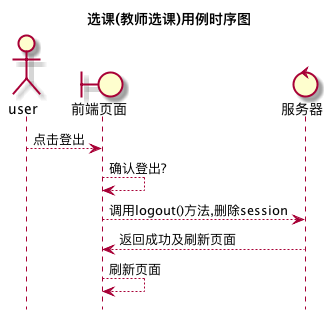
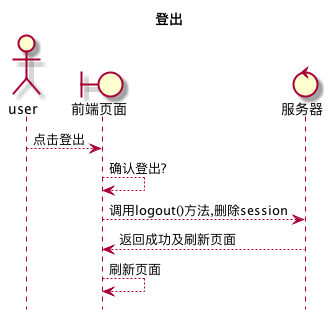
test6

Changed region(s): [[0.2395, 0.0312, 0.7485, 0.0938]]

diff --git a/test6/用例/登录.md b/test6/用例/登录.md
@@ -11,19 +11,15 @@
 |主事件流| <ol><li>访客输入用户名和密码，选择角色类型</li><li>系统判断用户名，密码，用户类正确，允许登录</li><li>系统将登录用户信息存入session，设置有效时间。</li></ol>|
 |备选事件流|<ol><li>输入的用户名或者密码为空</li> <ol><li>提示用户名或密码为空</li><li>访客重新提交登录信息</li></ol> <li>系统判断用户名，密码，用户类不正确，不允许登录</li> <ol><li>提示用户名，密码，用户类不正确</li><li>访客重新提交登录信息</li></ol> <li>输入用户名,密码不合法</li> <ol><li>提示输入不合法</li><li>访客重新提交登录信息</li></ol></ol>|
 
-#### 2.业务流程(顺序图)
-![登录](/out/test6/sequence/登录/登录.png)
+#### 2.业务流程(顺序图) 
+无
 
 #### 3.界面设计
 
-#### 4.算法描述
-
-- get_publicKey,通过api获得服务器的公钥并将它保存到session中,作为以后各个用例中需要加密传输或者解密是的钥匙,需要加密或者解密的内容在用例图中有明确提出
-- 登录成功后需要将用户信息存储到session中,这样可以方便后续用例操作中用来使用
-- 用户登录成功后需要必须根据用户的类型判断用户所属角色才能进行接下来的操作,并且加载不同的主页面
-
-
+#### 4.算法描述[源码](../sequence/登录.md)
+![登录](/out/test6/sequence/登录/登录.png)
 
 #### 5.参照表
+- [users](../数据库设计.md/#users)
 - [students](../数据库设计.md/#students)
 - [teachers](../数据库设计.md/#teachers)

diff --git a/test6/用例/修改密码.md b/test6/用例/修改密码.md
@@ -1,0 +1,28 @@
+### “修改密码”用例 [返回](././README.md)
+
+#### 1.用例规约
+
+|用例名称|修改密码|
+|-------|:-------------|
+|功能|修改用户的登录密码|
+|参与者|学生,任课教师|
+|前置条件|登录了系统平台,进入了登录界面|
+|后置条件|密码修改成功后旧密码不能再次使用,只能使用新密码才能登录|
+|主事件流|<ol><li>输入新旧密码</li><li>系统验证输入合法性</li><li>系统验证旧密码正确性</li><li>将新密码录入到用户数据中</li></ol>|
+|备选事件流|<ol><li>旧密码错误<ol><li>提示旧密码错误</li><li>重新输入旧密码</li></ol></li><li>输入不能为空<ol><li>输入提示输入内容为空</li><li>重新输入内容</li></ol></li><li>输入内容不合法<ol><li>提示输入内容不合法</li><li>重新输入不合法内容</li></ol></li></ol>|
+
+
+
+#### 2.业务流程(顺序图) [源码](../sequence/修改密码.md)
+![登出](/out/test6/sequence/修改密码/修改密码.png)
+
+#### 3.界面设计
+
+#### 4.算法描述[源码](../sequence/修改密码1.md)
+![登出](/out/test6/sequence/修改密码1/修改密码1.png)
+
+
+#### 5.参照表
+- [users](../数据库设计.md/#users)
+- [students](../数据库设计.md/#students)
+- [teachers](../数据库设计.md/#teachers)

diff --git a/test6/sequence/修改密码1.md b/test6/sequence/修改密码1.md
@@ -1,0 +1,20 @@
+@startuml 修改密码
+title 修改密码
+hide footbox
+actor user
+boundary 前端页面
+control 服务器
+database 用户数据
+user --> 前端页面: 输入新旧密码
+前端页面 --> 前端页面: 验证输入合法性及\n两次新密码是否一致
+前端页面 --> 服务器: 发送校验旧密码请求,传入公钥加密的用户id及旧密码
+服务器 --> 服务器: 用私钥对公钥加密的密码\n进行解密获得用户id及旧密码
+服务器 --> 用户数据: 通过用户id查找数据库存储的加密密码
+用户数据 --> 服务器: 返回加密密码
+服务器 --> 服务器: 调用checkPwd()方法验证旧密码是否正确
+服务器 --> 前端页面: 返回成功
+前端页面 --> 前端页面: 确认修改
+前端页面 --> 服务器: 发送修改密码请求,传入公钥加密的用户id及新密码
+服务器 --> 服务器: 用私钥对公钥加密的密码\n进行解密获得用户id及新密码
+服务器 --> 用户数据: 传入加密算法处理过的新密码,\n调用updatePwd()方法修改用户密码
+@enduml

diff --git a/test6/用例/学生列表.md b/test6/用例/学生列表.md
@@ -1,0 +1,28 @@
+### “学生列表”用例 [返回](././README.md)
+
+#### 1.用例规约
+
+|用例名称|显示本课程学生列表|
+|-------|:-------------|
+|功能|以表形式的显示出所有学生的信息|
+|参与者|老师|
+|前置条件| 以老师的身份登录成功|
+|后置条件||
+|主事件流| 1. 老师选择任教课程<br/>2.系统根据课程编号显示学生列表<br/>|
+|备选事件流|1a. 老师无任教课程 <br/>&nbsp;&nbsp; 1.下拉菜单无选项 <br/> &nbsp;&nbsp;|
+
+
+
+#### 2.业务流程(顺序图) [源码](../sequence/学生列表.md)
+![登出](/out/test6/sequence/学生列表/学生列表.png)
+
+#### 3.界面设计
+
+#### 4.算法描述[源码](../sequence/学生列表1.md)
+![登出](/out/test6/sequence/学生列表1/学生列表1.png)
+
+
+#### 5.参照表
+- [users](../数据库设计.md/#users)
+- [students](../数据库设计.md/#students)
+- [courses](../数据库设计.md/#courses)

diff --git a/test6/用例/修改用户信息.md b/test6/用例/修改用户信息.md
@@ -1,0 +1,26 @@
+### “修改用户信息”用例 [返回](././README.md)
+
+#### 1.用例规约
+
+|用例名称|修改用户信息|
+|-------|:-------------|
+|功能|修改用户的信息|
+|参与者|学生/老师|
+|前置条件|必须先登录，并且查看用户现有的GitHub用户名|
+|后置条件|修改完成用户信息后，用户可以点击查看到更新后的信息|
+|主事件流| 1.用户提交修改信息 <br/>2. 判断输入内容是否合法 <br>3.系统存储修改后的信息|
+|备选事件流|1a. 输入内容不合法 <br/>|
+
+
+#### 2.业务流程(顺序图) [源码](../sequence/修改用户信息.md)
+![登出](/out/test6/sequence/修改用户信息/修改用户信息.png)
+
+#### 3.界面设计
+
+#### 4.算法描述
+无
+
+#### 5.参照表
+- [users](../数据库设计.md/#users)
+- [students](../数据库设计.md/#students)
+- [teachers](../数据库设计.md/#teachers)

diff --git a/test6/用例/查看用户信息.md b/test6/用例/查看用户信息.md
@@ -1,0 +1,27 @@
+### “查看用户信息”用例 [返回](././README.md)
+
+#### 1.用例规约
+
+|用例名称|查看用户信息|
+|-------|:-------------|
+|功能|查看用户个人的所有信息|
+|参与者|学生/老师|
+|前置条件|必须先登录|
+|后置条件|跳转至显示用户信息页面|
+|主事件流|1. 用户点击页面顶部右上角的用户头像，选择查看用户信息<br/>2.系统访问数据库，读取用户信息，显示用户信息。|
+|备选事件流| |
+
+
+#### 2.业务流程(顺序图) [源码](../sequence/查看用户信息.md)
+![登出](/out/test6/sequence/查看用户信息/查看用户信息.png)
+
+#### 3.界面设计
+
+#### 4.算法描述
+无
+
+
+#### 5.参照表
+- [users](../数据库设计.md/#users)
+- [students](../数据库设计.md/#students)
+- [teachers](../数据库设计.md/#teachers)

diff --git a/test6/sequence/学生列表1.md b/test6/sequence/学生列表1.md
@@ -1,0 +1,21 @@
+@startuml
+skinparam titleBorderRoundCorner 15
+skinparam titleBorderThickness 2
+skinparam titleBorderColor #Black
+skinparam titleFontSize 24
+Title 显示本课程学生列表流程图
+
+
+actor 老师显示学生列表主页面
+actor API服务
+database 数据库存储
+
+== 老师主页面 ==
+老师显示学生列表主页面->API服务:传入课程的course_id
+API服务->数据库存储:访问courses表中是否有对应课程字段
+数据库存储->数据库存储:根据对应的course_term和course_major\n以及course_class字段在students表中查找学生
+数据库存储->API服务:返回课程course的学生列表
+API服务->老师显示学生列表主页面:返回所任教课程的学生列表
+== 老师登录后正常使用，\n每次请求都会访问API==
+
+@enduml

diff --git a/test6/sequence/修改用户信息.md b/test6/sequence/修改用户信息.md
@@ -1,0 +1,24 @@
+@startuml
+title 修改用户信息
+actor users
+== 查看用户信息 ==
+users -> users: 查看用户信息
+alt 如果users是教师
+    users -> teachers
+    teachers --> users:返回教师的个人信息
+else 如果users是学生
+    users -> students
+    students --> users:返回学生的个人信息
+end
+== 修改用户信息 ==
+alt 如果users是教师
+    users -> teachers:录入并提交修改后的教师的个人信息
+    teachers -> teachers:验证修改内容合法性
+    teachers --> users:返回操作结果
+else 如果users是学生
+    users -> students:录入并提交修改后的学生的个人信息
+    students -> students:验证修改内容合法性
+    students --> users:返回操作结果
+end
+
+@enduml

diff --git a/test6/用例/登出.md b/test6/用例/登出.md
@@ -11,17 +11,16 @@
 |主事件流|<ol><li>用户点击登出</li><li>系统确认登出</li><li>删除session中数据,并且返回登录界面</li></ol>|
 |备选事件流|无|
 
-#### 2.业务流程(顺序图)
-![登出](/out/test6/sequence/登出/登出.png)
+#### 2.业务流程(顺序图) 
+无
 
 #### 3.界面设计
 
-#### 4.算法描述
-
-- 登出由于是危险操作于是要确认
-- 登录后需要删除session中的所有数据回到登录界面,保证数据安全
+#### 4.算法描述[源码](../sequence/登出.md)
+![登出](/out/test6/sequence/登出/登出.png)
 
 
 #### 5.参照表
+- [users](../数据库设计.md/#users)
 - [students](../数据库设计.md/#students)
 - [teachers](../数据库设计.md/#teachers)

diff --git a/test6/用例图.md b/test6/用例图.md
@@ -28,6 +28,7 @@ package 业务用例集{
     (新建课程) as addCourse
     (查看本课程实验任务) as showCourseAssign
     (查看成绩,评价[课程、实验、评分点]) as Score
+    (评定成绩,评价[课程、实验、评分点]) as ScoreAssess
     (选择学期) as semester
     student --> showCourseAssign
     student --> Score
@@ -39,6 +40,7 @@ package 业务用例集{
     teacher --> CourseTask
     teacher --> Course
     teacher --> addCourse
+    teacher --> ScoreAssess
 }
 student -up-|> User
 teacher -up-|> User

diff --git a/test6/sequence/修改密码.md b/test6/sequence/修改密码.md
@@ -1,0 +1,15 @@
+
+@startuml
+title 修改密码
+actor users
+alt 如果users是教师
+    users -> teachers:录入并提交修改后的教师的密码
+    teachers -> teachers:验证修改密码合法性
+    teachers --> users:返回操作结果
+else 如果users是学生
+    users -> students:录入并提交修改后的学生的密码
+    students -> students:验证修改密码合法性
+    students --> users:返回操作结果
+end
+
+@enduml

diff --git a/test6/sequence/登出.md b/test6/sequence/登出.md
@@ -1,0 +1,12 @@
+@startuml 登出
+title 登出
+hide footbox
+actor user
+boundary 前端页面
+control 服务器
+user --> 前端页面: 点击登出
+前端页面 --> 前端页面: 确认登出?
+前端页面 --> 服务器: 调用logout()方法,删除session
+服务器 --> 前端页面: 返回成功及刷新页面
+前端页面 --> 前端页面: 刷新页面
+@enduml
